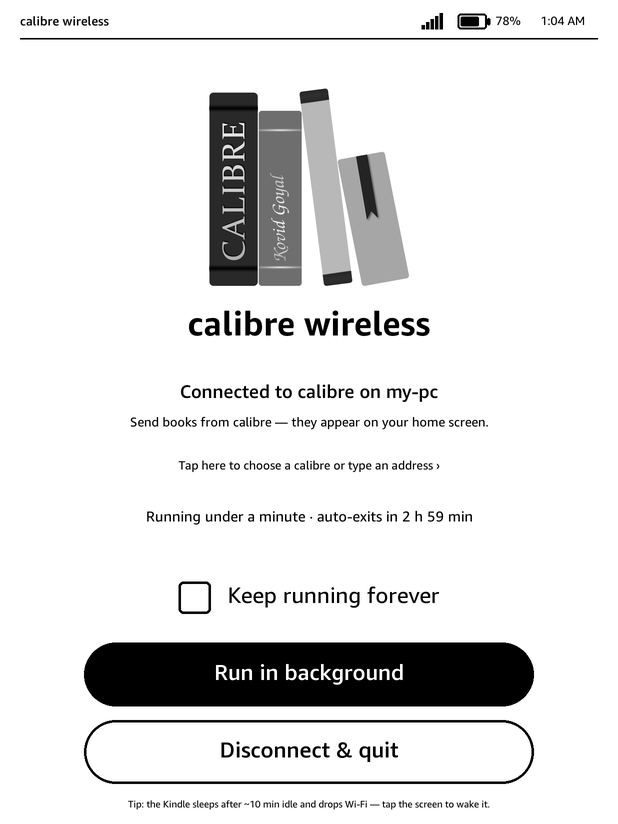
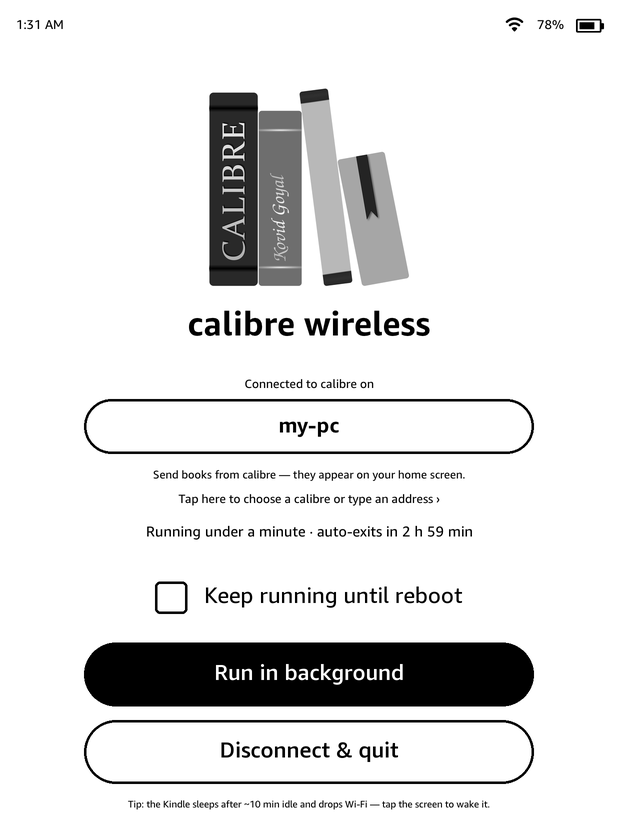
App: stock-style header, PC name pill, honest timer wording, state-read fix
Header now matches the 5.18 home screen: time at the left; Wi-Fi, battery
percentage and battery at the right, drawn with the Kindle's own status-bar
icons (SVGs pulled from the device by tools/fetch_device_art.py and
rasterised by make_assets.py; the SVGs stay out of git like the fonts).

When connected, the calibre PC's name sits in a large pill under
"Connected to calibre on" instead of being buried in a sentence.

"Keep running forever" is now "Keep running until reboot" (checkbox, timer
line, toast, README): the daemon cannot outlive a reboot.

json.load / the UI's load_state tolerate a missing, empty or half-written
state.json (remove+rename on FAT) instead of crashing the app, which
happened once on the Paperwhite 5.

diff --git a/assets/src/make_assets.py b/assets/src/make_assets.py
@@ -1,6 +1,12 @@
 """Render the e-ink UI assets for the Kindle calibre companion.
 
-python make_assets.py <calibre_logo.png> <fonts_dir> <out_dir>
+python make_assets.py <calibre_logo.png> <fonts_dir> <out_dir> [icons_dir]
+
+fonts_dir / icons_dir hold Amazon's Ember TTFs and the Kindle's status-bar
+SVG icons, pulled from a device with tools/fetch_device_art.py (they are not
+redistributable, so they are not in git; the rendered PNGs are). Without
+icons_dir the existing batt_*/wifi_* PNGs are left alone. Needs the resvg-py
+package for the icons.
 
 Outputs (8-bit grayscale PNGs, sized for a 1236x1648 Paperwhite 5):
   cover.png            600x960 library tile (scriptlet icon, book-cover aspect)
@@ -8,7 +14,8 @@ Outputs (8-bit grayscale PNGs, sized for a 1236x1648 Paperwhite 5):
   logo_small.png       120x120
   btn_bg.png           pill button "Run in background"
   btn_quit.png         pill button "Disconnect & quit"
-  chk_off.png/chk_on.png  checkbox row "Keep running forever"
+  chk_off.png/chk_on.png  checkbox row "Keep running until reboot"
+  batt_0..10.png, batt_chg.png, wifi_0..5.png  header icons (Kindle artwork)
   dots_0..3.png        activity dots for the Searching screen
 """
 import os
@@ -101,7 +108,7 @@ save(pill("Connect", h=110, invert=True, fontsize=40), "pill_connect.png")
 
 
 # --- checkbox rows (box + label centered as a group, to line up with the pills)
-def check_row(checked, text="Keep running forever", w=900, h=110):
+def check_row(checked, text="Keep running until reboot", w=900, h=110):
     im = Image.new("L", (w, h), 255)
     d = ImageDraw.Draw(im)
     box = 64
@@ -121,44 +128,37 @@ def check_row(checked, text="Keep running forever", w=900, h=110):
 save(check_row(False), "chk_off.png")
 save(check_row(True), "chk_on.png")
 
-# --- header glyphs: battery (0..10 tenths, + charging) and Wi-Fi bars (0..5)
-def battery(level10, charging=False, w=66, h=32):
-    im = Image.new("L", (w, h), 255)
-    d = ImageDraw.Draw(im)
-    body_w = w - 8
-    d.rounded_rectangle([0, 0, body_w, h - 1], radius=6, outline=0, width=4)
-    d.rounded_rectangle([body_w + 1, h // 2 - 7, w - 1, h // 2 + 7], radius=3, fill=0)  # nub
-    inner = max(0, int((body_w - 12) * level10 / 10))
-    if inner > 0:
-        d.rounded_rectangle([6, 6, 6 + inner, h - 7], radius=3, fill=0)
-    if charging:
-        # lightning bolt, inverted over the fill
-        pts = [(w * 0.52, 3), (w * 0.30, h * 0.58), (w * 0.47, h * 0.58), (w * 0.40, h - 4), (w * 0.64, h * 0.40), (w * 0.47, h * 0.40)]
-        d.polygon(pts, fill=255, outline=0)
-    return im
+# --- header glyphs: the Kindle's own status-bar icons, rasterised from the
+# SVGs the 5.17+ UI ships (icons_dir). battery-default.svg draws a fixed
+# full fill "M4 6h21v8H4z"; its width is scaled for the 0..10 tenths.
+ICONS = sys.argv[4] if len(sys.argv) > 4 else None
+BATT_W, BATT_H, WIFI_PX = 56, 35, 42   # ui.lua's ASSET table mirrors these
 
 
-for lvl in range(11):
-    save(battery(lvl), f"batt_{lvl}.png")
-save(battery(10, charging=True), "batt_chg.png")
+def svg_png(name, w, h, edit=None):
+    import io
+    import resvg_py
+    s = open(os.path.join(ICONS, name), encoding="utf-8").read()
+    if edit:
+        s = edit(s)
+    png = bytes(resvg_py.svg_to_bytes(svg_string=s, width=w, height=h))
+    return to_gray(Image.open(io.BytesIO(png)))
 
 
-def wifi(bars, w=50, h=34):
-    im = Image.new("L", (w, h), 255)
-    d = ImageDraw.Draw(im)
-    for i in range(5):
-        x = 2 + i * 9
-        bh = 8 + i * 6
-        y0 = h - 2 - bh
-        if i < bars:
-            d.rectangle([x, y0, x + 6, h - 2], fill=0)
-        else:
-            d.rectangle([x, y0, x + 6, h - 2], outline=0, width=1)
-    return im
-
-
-for bars in range(6):
-    save(wifi(bars), f"wifi_{bars}.png")
+if ICONS:
+    FULL = '<path d="M4 6h21v8H4z"/>'
+    assert FULL in open(os.path.join(ICONS, "battery-default.svg"), encoding="utf-8").read()
+    for lvl in range(11):
+        fw = round(21 * lvl / 10)
+        part = f'<path d="M4 6h{fw}v8H4z"/>' if fw else ""
+        save(svg_png("battery-default.svg", BATT_W, BATT_H, lambda s, part=part: s.replace(FULL, part)), f"batt_{lvl}.png")
+    save(svg_png("battery-charging.svg", BATT_W, BATT_H), "batt_chg.png")
+    # wifid reports signalStrength N/5; the Kindle itself only has 0..3 bars.
+    WIFI = {0: "wifi-offline.svg", 1: "wifi-one.svg", 2: "wifi-one.svg", 3: "wifi-two.svg", 4: "wifi-three.svg", 5: "wifi-three.svg"}
+    for bars, name in WIFI.items():
+        save(svg_png(name, WIFI_PX, WIFI_PX), f"wifi_{bars}.png")
+else:
+    print("no icons_dir given: keeping existing batt_*/wifi_* PNGs")
 
 # --- blank widgets: list row pill and keypad key (labels drawn at runtime)
 def blank_pill(w=900, h=110, invert=False):

diff --git a/tools/fetch_device_art.py b/tools/fetch_device_art.py
@@ -1,0 +1,46 @@
+"""Pull the Kindle artwork that assets/src/make_assets.py renders with.
+
+python tools/fetch_device_art.py <kindle-ip>   (KINDLE_PW env, user root)
+
+Copies Amazon's Ember fonts to fonts/ and the status-bar SVG icons of the
+5.17+ UI to icons/. Both are Amazon's and stay out of git (.gitignore); only
+the PNGs rendered from them are committed.
+"""
+import os
+import sys
+
+import paramiko
+
+ROOT = os.path.abspath(os.path.join(os.path.dirname(__file__), ".."))
+FONT_DIR = "/usr/java/lib/fonts"
+FONTS = ["Amazon-Ember-Regular.ttf", "Amazon-Ember-Medium.ttf", "Amazon-Ember-Bold.ttf"]
+ICON_DIR = "/app/KPPMainApp/res/KPPUIComponents/internal/icons"
+ICONS = ["battery-default.svg", "battery-charging.svg", "wifi-offline.svg",
+         "wifi-zero.svg", "wifi-one.svg", "wifi-two.svg", "wifi-three.svg"]
+
+
+def main() -> int:
+    if len(sys.argv) < 2:
+        print(__doc__)
+        return 2
+    pw = os.environ.get("KINDLE_PW")
+    if not pw:
+        print("KINDLE_PW not set", file=sys.stderr)
+        return 2
+    t = paramiko.Transport((sys.argv[1], 22))
+    t.connect(username="root", password=pw)
+    try:
+        sftp = paramiko.SFTPClient.from_transport(t)
+        for sub, remote_dir, names in (("fonts", FONT_DIR, FONTS), ("icons", ICON_DIR, ICONS)):
+            local_dir = os.path.join(ROOT, sub)
+            os.makedirs(local_dir, exist_ok=True)
+            for n in names:
+                sftp.get(f"{remote_dir}/{n}", os.path.join(local_dir, n))
+                print(f"{sub}/{n}")
+    finally:
+        t.close()
+    return 0
+
+
+if __name__ == "__main__":
+    sys.exit(main())

diff --git a/README.md b/README.md
@@ -5,7 +5,7 @@ green "On Device" ticks, **Send to device**, delete, the Device book list.
 Books land in `documents/` as native Kindle files and open in the normal
 Kindle reader. A tap on the **calibre wireless** tile in your library connects;
 a full-screen e-ink app shows status, a session timer, *Run in background*,
-*Keep running forever* and *Disconnect & quit*.
+*Keep running until reboot* and *Disconnect & quit*.
 
 Standalone: nothing else needs to be installed on the Kindle. No KOReader.
 
@@ -52,7 +52,7 @@ Everything lives in `/mnt/us/calibre-wireless/`.
 3. Tap **calibre wireless** in the library. Within ~10 s calibre shows the
    device. Send books. Tap *Run in background* to close the app and keep the
    connection; it auto-exits after `max_idle_minutes` without calibre (or
-   tick *Keep running forever*).
+   tick *Keep running until reboot*).
 
 ## Several calibres, or no discovery
 
@@ -120,7 +120,10 @@ firmware 5.18/5.19 with SpringBreak. Screenshots in `screenshots/` are
 rendered from a placeholder state with `tools/qc_shots.py`.
 
 Build: `python tools/fetch_runtime.py && python tools/build.py` →
-`dist/calibre-wireless_<ver>_kindlehf-kindlepw2.kpkg`.
+`dist/calibre-wireless_<ver>_kindlehf-kindlepw2.kpkg`. To re-render the
+PNG assets: `tools/fetch_device_art.py <ip>` (Ember fonts and the Kindle's
+status-bar icons, from a device), then `assets/src/make_assets.py
+<calibre library.png> fonts assets icons`.
 
 ## Limits
 
